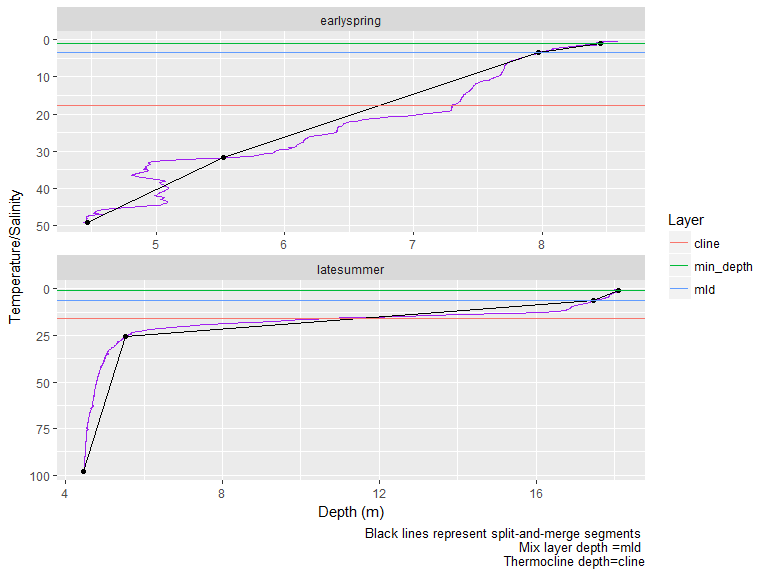
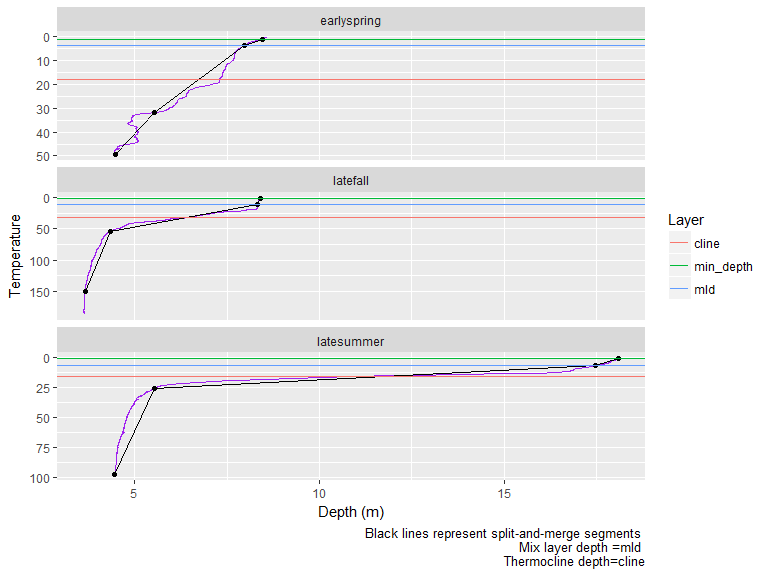
Updated vignette

diff --git a/vignettes/limnotools.md b/vignettes/limnotools.md
@@ -1,7 +1,7 @@
 Limnotools Usage
 ================
 Sam Albers and Doug Collinge
-2017-02-17
+2017-02-20
 
 Package loading
 ---------------
@@ -35,6 +35,7 @@ Useful dataset in limnotools
 ``` r
 data("earlyspring")
 data("latesummer")
+data("latefall")
 data("t11")
 ```
 
@@ -75,13 +76,14 @@ text(16, wldf$min_depth+3, "Minimum Depth", col = 'green')
 More complicated example using many datafiles
 ---------------------------------------------
 
-Many users will face situations where they have multiple profiles and would like to evaluate layers and/or segments on many files. There are several approaches to this type of 'grouping' problem in R. We will use the most popular approach - dplyr - which is part of the [tidyverse](https://CRAN.R-project.org/package=tidyverse). To generate data for this example we first need to combine all the internal dataframes from limnotools to illustrate mix layer estimation for many casts. To simplify and decrease runtime we will only do this for temperature and salinity.
+Many users will face situations where they have multiple profiles and would like to evaluate layers and/or segments on many files. There are several approaches to this type of 'grouping' problem in R. We will use the most popular approach - dplyr - and the functionla programming tool - purrr - which is part of the [tidyverse](https://CRAN.R-project.org/package=tidyverse). To generate data for this example we first need to combine all the internal dataframes from limnotools to illustrate mix layer estimation for many casts. To simplify and decrease runtime we will only do this for temperature and salinity.
 
 ``` r
 ## rbind all the dataframes together
 earlyspring$group <- 'earlyspring'
 latesummer$group <- 'latesummer'
-rbind_df <- rbind(earlyspring, latesummer)
+latefall$group <- 'latefall'
+rbind_df <- dplyr::bind_rows(earlyspring, latesummer, latefall)
 ```
 
 We can utilize the power of a dplyr pipe (%&gt;%) and gather to convert this data into a long form.
@@ -104,25 +106,40 @@ wl_df <- wtrprof_df %>%
   filter(variable == "temper")
 ```
 
+    ## Warning in depth_filter(depth): Soak, heave and bottom data filter removed
+    ## 11% of the data
+
+    ## Warning in depth_filter(depth): Soak, heave and bottom data filter removed
+    ## 11% of the data
+
     ## Warning in cline_calc(z_seg = sam_list[["smz"]], sigma_seg =
     ## sam_list[["sms"]]): Algorithm calculates cline to be in top segment. This
     ## is likely due to surface scatter. Using the next interval.
+
+    ## Warning in depth_filter(depth): Soak, heave and bottom data filter removed
+    ## 11% of the data
+
+    ## Warning in depth_filter(depth): Soak, heave and bottom data filter removed
+    ## 11% of the data
 
 ``` r
 wl_df
 ```
 
-    ## Source: local data frame [6 x 4]
-    ## Groups: variable, group [2]
+    ## Source: local data frame [9 x 4]
+    ## Groups: variable, group [3]
     ## 
     ##   variable       group     Layer    value
     ##      <chr>       <chr>     <chr>    <dbl>
     ## 1   temper earlyspring min_depth  1.00000
-    ## 2   temper  latesummer min_depth  1.00000
-    ## 3   temper earlyspring       mld  3.55500
-    ## 4   temper  latesummer       mld  6.25100
-    ## 5   temper earlyspring     cline 17.68575
-    ## 6   temper  latesummer     cline 15.93150
+    ## 2   temper    latefall min_depth  1.68500
+    ## 3   temper  latesummer min_depth  1.00000
+    ## 4   temper earlyspring       mld  3.55500
+    ## 5   temper    latefall       mld 10.43350
+    ## 6   temper  latesummer       mld  6.25100
+    ## 7   temper earlyspring     cline 17.68575
+    ## 8   temper    latefall     cline 32.16900
+    ## 9   temper  latesummer     cline 15.93150
 
 The same applies to wtr\_segments()
 
@@ -131,22 +148,41 @@ s_df <- wtrprof_df %>%
   group_by(variable, group) %>% ## group by variable and group
   do(wtr_segments(depth = .$depth, measure = .$value)) %>% ##do a water_layer calc
   filter(variable == "temper")
+```
+
+    ## Warning in depth_filter(depth): Soak, heave and bottom data filter removed
+    ## 11% of the data
+
+    ## Warning in depth_filter(depth): Soak, heave and bottom data filter removed
+    ## 11% of the data
+
+    ## Warning in depth_filter(depth): Soak, heave and bottom data filter removed
+    ## 11% of the data
+
+    ## Warning in depth_filter(depth): Soak, heave and bottom data filter removed
+    ## 11% of the data
+
+``` r
 s_df
 ```
 
-    ## Source: local data frame [8 x 6]
-    ## Groups: variable, group [2]
+    ## Source: local data frame [12 x 6]
+    ## Groups: variable, group [3]
     ## 
-    ##   variable       group min_depth  nseg   depth  measure
-    ##      <chr>       <chr>     <dbl> <dbl>   <dbl>    <dbl>
-    ## 1   temper earlyspring         1     4  1.0120  8.45310
-    ## 2   temper earlyspring         1     4  3.5550  7.97280
-    ## 3   temper earlyspring         1     4 31.8165  5.52725
-    ## 4   temper earlyspring         1     4 49.3265  4.46620
-    ## 5   temper  latesummer         1     4  1.0230 18.09700
-    ## 6   temper  latesummer         1     4  6.2510 17.47215
-    ## 7   temper  latesummer         1     4 25.6120  5.53080
-    ## 8   temper  latesummer         1     4 98.1390  4.46375
+    ##    variable       group min_depth  nseg    depth  measure
+    ##       <chr>       <chr>     <dbl> <dbl>    <dbl>    <dbl>
+    ## 1    temper earlyspring     1.000     4   1.0120  8.45310
+    ## 2    temper earlyspring     1.000     4   3.5550  7.97280
+    ## 3    temper earlyspring     1.000     4  31.8165  5.52725
+    ## 4    temper earlyspring     1.000     4  49.3265  4.46620
+    ## 5    temper    latefall     1.685     4   1.6850  8.40780
+    ## 6    temper    latefall     1.685     4  10.4335  8.32810
+    ## 7    temper    latefall     1.685     4  53.9045  4.33720
+    ## 8    temper    latefall     1.685     4 149.8985  3.65640
+    ## 9    temper  latesummer     1.000     4   1.0230 18.09700
+    ## 10   temper  latesummer     1.000     4   6.2510 17.47215
+    ## 11   temper  latesummer     1.000     4  25.6120  5.53080
+    ## 12   temper  latesummer     1.000     4  98.1390  4.46375
 
 Lastly we can plot the mix layer and cline depths and segments over the water profiles using the same limnological visualization convention described above and using ggplot2 (part of the tidyverse).
 
@@ -159,8 +195,8 @@ wtrprof_df %>%
   geom_point(data = s_df, aes(x = measure, y = depth), colour = 'black') +
   geom_hline(data = wl_df, aes(yintercept = value, colour = Layer)) +
   scale_y_reverse() +
-  facet_wrap(~group, scales = "free", ncol = 1) +
-  labs(y = "Temperature/Salinity", x = "Depth (m)", 
+  facet_wrap(~group, scales = "free_y", ncol = 1) +
+  labs(y = "Temperature", x = "Depth (m)", 
        caption = "Black lines represent split-and-merge segments \n Mix layer depth =mld \n  Thermocline depth=cline")
 ```
 
